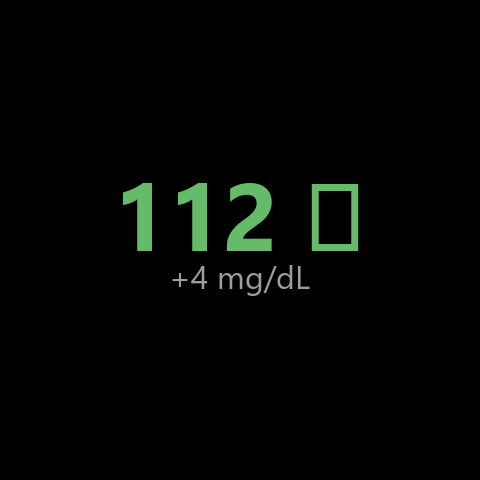
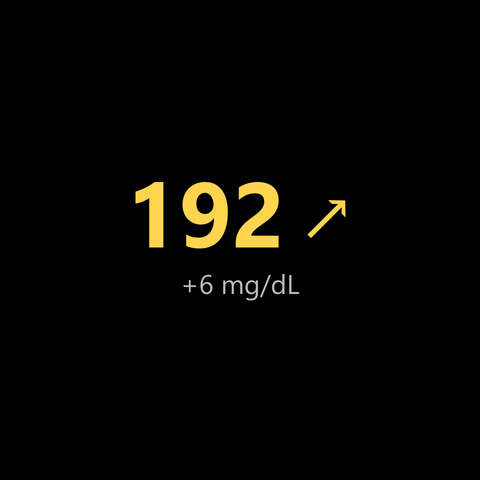
fix(site): replace missing arrow glyph boxes with crisp vector arrows and align widget showcase

diff --git a/site/index.html b/site/index.html
@@ -7,7 +7,7 @@
   <meta name="description" content="Aplicație Android & Wear OS gratuită, fără reclame și Open Source pentru vizualizarea glicemiei din SinoCare LinX și Dexcom ONE+ direct pe ceas și în widget-uri pe telefon." />
   <meta property="og:title" content="CGM Glance — Glicemia pe Ceas (Wear OS) & Widget Telefon" />
   <meta property="og:description" content="Vezi glicemia din SinoCare LinX și Dexcom ONE+ direct pe cadranul ceasului (Wear OS) și în widget-uri pe ecranul telefonului. 100% gratuit, fără cont, fără reclame." />
-  <meta property="og:image" content="assets/phone-screenshot-1.png" />
+  <meta property="og:image" content="assets/phone-screenshot-2.png" />
   <meta name="theme-color" content="#071310" />
   <link rel="icon" type="image/png" href="assets/icon-512.png" />
   <link rel="apple-touch-icon" href="assets/icon-512.png" />
@@ -1387,21 +1387,21 @@
       <div class="phone-grid">
         <div class="media-card">
           <div class="phone-img-wrap">
-            <img src="assets/phone-screenshot-1.png" alt="Widget-uri pe ecranul telefonului" loading="lazy" />
+            <img src="assets/phone-screenshot-2.png" alt="Widget-uri pe ecranul telefonului" loading="lazy" />
           </div>
           <h3 data-lang="ro">Widget-uri pe Ecranul Principal</h3>
           <h3 data-lang="en">Home Screen Widgets</h3>
           <p data-lang="ro">
-            Valoare mare, săgeată de trend, variație numerică Delta (+4 mg/dL), cronometru live de la citire și culori dinamice pentru valori în țintă sau alerte.
+            Valoare mare, săgeată de trend, variație numerică Delta (+2 / +6 / -5 mg/dL), cronometru live de la citire și culori dinamice pentru valori în țintă sau alerte.
           </p>
           <p data-lang="en">
-            Range-colored readings with calculated trend arrows, signed Delta change (+4 mg/dL), and a live reading-age timer right on your home screen.
+            Range-colored readings with calculated trend arrows, signed Delta change (+2 / +6 / -5 mg/dL), and a live reading-age timer right on your home screen.
           </p>
         </div>
 
         <div class="media-card">
           <div class="phone-img-wrap">
-            <img src="assets/phone-screenshot-2.png" alt="Aplicația pe telefon cu diagnostic de conexiune" loading="lazy" />
+            <img src="assets/phone-screenshot-3.png" alt="Aplicația pe telefon cu diagnostic de conexiune" loading="lazy" />
           </div>
           <h3 data-lang="ro">Panou Clar de Stare &amp; Sincronizare</h3>
           <h3 data-lang="en">Live Sync &amp; Health Connect</h3>
@@ -1415,15 +1415,15 @@
 
         <div class="media-card">
           <div class="phone-img-wrap">
-            <img src="assets/phone-screenshot-3.png" alt="Suport multi-senzor LinX și Dexcom ONE+" loading="lazy" />
+            <img src="assets/phone-screenshot-1.png" alt="Setări senzor LinX, Dexcom ONE+ și fereastră Delta" loading="lazy" />
           </div>
-          <h3 data-lang="ro">Suport LinX &amp; Dexcom ONE+</h3>
-          <h3 data-lang="en">SinoCare LinX &amp; Dexcom ONE+</h3>
+          <h3 data-lang="ro">Suport LinX, Dexcom ONE+ &amp; Fereastră Delta</h3>
+          <h3 data-lang="en">LinX, Dexcom ONE+ &amp; Delta Window</h3>
           <p data-lang="ro">
-            Detectează automat notificările ambelor aplicații oficiale sau îți permite să configurezi senzorul individual pentru fiecare widget.
+            Alege senzorul activ, pragurile de culoare, unitatea (mg/dL sau mmol/L) și fereastra de calcul Delta (5, 10, 15 sau 20 min).
           </p>
           <p data-lang="en">
-            Automatically parses both official CGM apps and lets you configure each home screen widget independently.
+            Configure your active sensor, range thresholds, display unit (mg/dL or mmol/L), and Delta calculation window (5, 10, 15, or 20 min).
           </p>
         </div>
       </div>
